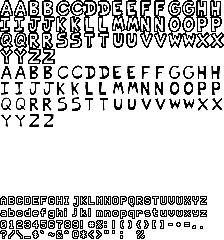
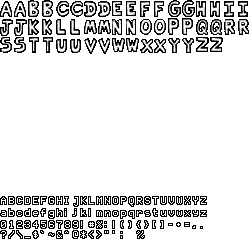
Add rotation and new bold font

Changed region(s): [[0.0, 0.0, 1.0, 0.5542], [0.0, 0.8167, 0.9375, 1.0]]

diff --git a/src/menu/menu.c b/src/menu/menu.c
@@ -118,34 +118,9 @@ static struct
 //Internal menu functions
 char menu_text_buffer[0x100];
 
-static const char *Menu_LowerIf(const char *text, boolean lower)
+static u8 Menu_TextSelected(boolean is_selected)
 {
-	//Copy text
-	char *dstp = menu_text_buffer;
-	if (lower)
-	{
-		for (const char *srcp = text; *srcp != '\0'; srcp++)
-		{
-			if (*srcp >= 'A' && *srcp <= 'Z')
-				*dstp++ = *srcp | 0x20;
-			else
-				*dstp++ = *srcp;
-		}
-	}
-	else
-	{
-		for (const char *srcp = text; *srcp != '\0'; srcp++)
-		{
-			if (*srcp >= 'a' && *srcp <= 'z')
-				*dstp++ = *srcp & ~0x20;
-			else
-				*dstp++ = *srcp;
-		}
-	}
-	
-	//Terminate text
-	*dstp++ = '\0';
-	return menu_text_buffer;
+	return (is_selected) ? 128 : 64;
 }
 
 static void Menu_DrawBack(boolean flash, s32 scroll, u8 r0, u8 g0, u8 b0, u8 r1, u8 g1, u8 b1)
@@ -564,11 +539,14 @@ void Menu_Tick(void)
 				//Draw all options
 				for (u8 i = 0; i < COUNT_OF(menu_options); i++)
 				{
-					font_bold.draw(&font_bold,
-						Menu_LowerIf(menu_options[i].text, menu.select != i),
+					font_bold.draw_col(&font_bold,
+						menu_options[i].text,
 						SCREEN_WIDTH2,
 						SCREEN_HEIGHT2 + (i * 32) - 48 - (menu.scroll >> FIXED_SHIFT),
-						FontAlign_Center
+						FontAlign_Center,
+						Menu_TextSelected(menu.select == i),
+						Menu_TextSelected(menu.select == i),
+						Menu_TextSelected(menu.select == i)
 					);
 				}
 			}
@@ -778,11 +756,14 @@ void Menu_Tick(void)
 					break;
 				
 				//Draw text
-				font_bold.draw(&font_bold,
-					Menu_LowerIf(menu_options[i].text, menu.select != i),
+				font_bold.draw_col(&font_bold,
+					menu_options[i].text,
 					22 + (y / 6),
 					SCREEN_HEIGHT2 + y - 8,
-					FontAlign_Left
+					FontAlign_Left,
+					Menu_TextSelected(menu.select == i),
+					Menu_TextSelected(menu.select == i),
+					Menu_TextSelected(menu.select == i)
 				);
 			}
 			
@@ -884,11 +865,14 @@ void Menu_Tick(void)
 					break;
 				
 				//Draw text
-				font_bold.draw(&font_bold,
-					Menu_LowerIf(menu_options[i].text, menu.select != i),
+				font_bold.draw_col(&font_bold,
+					menu_options[i].text,
 					48 + (y >> 2),
 					SCREEN_HEIGHT2 + y - 8,
-					FontAlign_Left
+					FontAlign_Left,
+					Menu_TextSelected(menu.select == i),
+					Menu_TextSelected(menu.select == i),
+					Menu_TextSelected(menu.select == i)
 				);
 			}
 			
@@ -1006,11 +990,14 @@ void Menu_Tick(void)
 						sprintf(text, "%s %s", menu_options[i].text, menu_options[i].spec.spec_enum.strs[*((s32*)menu_options[i].value)]);
 						break;
 				}
-				font_bold.draw(&font_bold,
-					Menu_LowerIf(text, menu.select != i),
+				font_bold.draw_col(&font_bold,
+					text,
 					48 + (y / 4),
 					SCREEN_HEIGHT2 + y - 8,
-					FontAlign_Left
+					FontAlign_Left,
+					Menu_TextSelected(menu.select == i),
+					Menu_TextSelected(menu.select == i),
+					Menu_TextSelected(menu.select == i)
 				);
 			}
 			

diff --git a/src/stage.c b/src/stage.c
@@ -13,6 +13,7 @@
 #include "main.h"
 #include "random.h"
 #include "movie.h"
+#include "mutil.h"
 
 #include "menu/menu.h"
 #include "trans.h"
@@ -508,6 +509,57 @@ static void Stage_ProcessPlayer(PlayerState *this, Pad *pad, boolean playing)
 }
 
 //Stage drawing functions
+void Stage_DrawTexRotateCol(Gfx_Tex *tex, const RECT *src, const RECT_FIXED *dst, fixed_t zoom, u8 cr, u8 cg, u8 cb, fixed_t angle)
+{
+	fixed_t xz = dst->x;
+	fixed_t yz = dst->y;
+	fixed_t wz = dst->w;
+	fixed_t hz = dst->h;
+	
+	//Don't draw if HUD and is disabled
+	if (tex == &stage.tex_hud0 || tex == &stage.tex_hud1)
+	{
+		if (stage.nohud)
+			return;
+	}
+	
+	if (angle == 0)
+	{
+		Stage_DrawTexCol(tex, src, dst, zoom, cr, cg, cb);
+		return;
+	}
+	
+	u8 rotation = angle >> FIXED_SHIFT;
+	
+	fixed_t sin = MUtil_Sin(rotation) << FIXED_SHIFT;
+	fixed_t cos = MUtil_Cos(rotation) << FIXED_SHIFT;
+	fixed_t rotation_x = (FIXED_MUL(xz, cos) >> 8) - (FIXED_MUL(yz, sin) >> 8);
+	fixed_t rotation_y = (FIXED_MUL(xz, sin) >> 8) + (FIXED_MUL(yz, cos) >> 8);
+	
+	fixed_t l = (SCREEN_WIDTH2  << FIXED_SHIFT) + FIXED_MUL(rotation_x, zoom);// + FIXED_DEC(1,2);
+	fixed_t t = (SCREEN_HEIGHT2 << FIXED_SHIFT) + FIXED_MUL(rotation_y, zoom);// + FIXED_DEC(1,2);
+	fixed_t r = l + FIXED_MUL(wz, zoom);
+	fixed_t b = t + FIXED_MUL(hz, zoom);
+	
+	l >>= FIXED_SHIFT;
+	t >>= FIXED_SHIFT;
+	r >>= FIXED_SHIFT;
+	b >>= FIXED_SHIFT;
+	
+	RECT sdst = {
+		l,
+		t,
+		r - l,
+		b - t,
+	};
+	Gfx_DrawTexRotateCol(tex, src, &sdst, cr, cg, cb, angle);
+}
+
+void Stage_DrawTexRotate(Gfx_Tex *tex, const RECT *src, const RECT_FIXED *dst, fixed_t zoom, fixed_t angle)
+{
+	Stage_DrawTexRotateCol(tex, src, dst, zoom, 0x80, 0x80, 0x80, angle);
+}
+
 void Stage_DrawTexCol(Gfx_Tex *tex, const RECT *src, const RECT_FIXED *dst, fixed_t zoom, u8 cr, u8 cg, u8 cb)
 {
 	fixed_t xz = dst->x;

diff --git a/src/psx/gfx.c b/src/psx/gfx.c
@@ -8,6 +8,7 @@
 
 #include "../mem.h"
 #include "../main.h"
+#include "../mutil.h"
 
 //Gfx constants
 #define OTLEN 8
@@ -215,6 +216,52 @@ void Gfx_BlitTexCol(Gfx_Tex *tex, const RECT *src, s32 x, s32 y, u8 r, u8 g, u8 
 void Gfx_BlitTex(Gfx_Tex *tex, const RECT *src, s32 x, s32 y)
 {
 	Gfx_BlitTexCol(tex, src, x, y, 0x80, 0x80, 0x80);
+}
+
+void Gfx_DrawTexRotateCol(Gfx_Tex *tex, const RECT *src, const RECT *dst, u8 r, u8 g, u8 b, s16 angle)
+{
+	if (angle == 0)
+	{
+		Gfx_DrawTexCol(tex, src, dst, r, g, b);
+		return;
+	}
+	
+	u8 rotation = angle;
+	
+	s16 sinVal = MUtil_Sin(rotation);
+    s16 cosVal = MUtil_Cos(rotation);
+	
+	// Get rotated points
+    POINT points[4] = {
+        {0, 0},
+        {dst->w, 0},
+        {0, dst->h},
+        {dst->w, dst->h}
+    };
+
+    for (int i = 0; i < 4; i++)
+    {
+        MUtil_RotatePoint(&points[i], sinVal, cosVal);
+        points[i].x += dst->x;
+        points[i].y += dst->y;
+    }
+	
+	//Add quad
+	POLY_FT4 *quad = (POLY_FT4*)nextpri;
+	setPolyFT4(quad);
+	setUVWH(quad, src->x, src->y, src->w, src->h);
+	setXY4(quad, points[0].x, points[0].y, points[1].x, points[1].y, points[2].x, points[2].y, points[3].x, points[3].y);
+	setRGB0(quad, r, g, b);
+	quad->tpage = tex->tpage;
+	quad->clut = tex->clut;
+	
+	addPrim(ot[db], quad);
+	nextpri += sizeof(POLY_FT4);
+}
+
+void Gfx_DrawTexRotate(Gfx_Tex *tex, const RECT *src, const RECT *dst, s16 angle)
+{
+	Gfx_DrawTexRotateCol(tex, src, dst, 0x80, 0x80, 0x80, angle);
 }
 
 void Gfx_DrawTexCol(Gfx_Tex *tex, const RECT *src, const RECT *dst, u8 r, u8 g, u8 b)

diff --git a/src/stage.h b/src/stage.h
@@ -183,6 +183,12 @@ typedef struct
 
 typedef struct
 {
+	fixed_t zoom;
+	u8 angle;
+} Camera;
+
+typedef struct
+{
 	//Stage settings
 	boolean ghost, downscroll, botplay;
 	s32 mode;
@@ -264,6 +270,8 @@ typedef struct
 extern Stage stage;
 
 //Stage drawing functions
+void Stage_DrawTexRotateCol(Gfx_Tex *tex, const RECT *src, const RECT_FIXED *dst, fixed_t zoom, u8 r, u8 g, u8 b, fixed_t angle);
+void Stage_DrawTexRotate(Gfx_Tex *tex, const RECT *src, const RECT_FIXED *dst, fixed_t zoom, fixed_t angle);
 void Stage_DrawTexCol(Gfx_Tex *tex, const RECT *src, const RECT_FIXED *dst, fixed_t zoom, u8 r, u8 g, u8 b);
 void Stage_DrawTex(Gfx_Tex *tex, const RECT *src, const RECT_FIXED *dst, fixed_t zoom);
 void Stage_DrawTexArb(Gfx_Tex *tex, const RECT *src, const POINT_FIXED *p0, const POINT_FIXED *p1, const POINT_FIXED *p2, const POINT_FIXED *p3, fixed_t zoom);

diff --git a/src/gfx.h b/src/gfx.h
@@ -43,6 +43,8 @@ void Gfx_DrawRect(const RECT *rect, u8 r, u8 g, u8 b);
 void Gfx_BlendRect(const RECT *rect, u8 r, u8 g, u8 b, u8 mode);
 void Gfx_BlitTexCol(Gfx_Tex *tex, const RECT *src, s32 x, s32 y, u8 r, u8 g, u8 b);
 void Gfx_BlitTex(Gfx_Tex *tex, const RECT *src, s32 x, s32 y);
+void Gfx_DrawTexRotateCol(Gfx_Tex *tex, const RECT *src, const RECT *dst, u8 r, u8 g, u8 b, s16 angle);
+void Gfx_DrawTexRotate(Gfx_Tex *tex, const RECT *src, const RECT *dst, s16 angle);
 void Gfx_DrawTexCol(Gfx_Tex *tex, const RECT *src, const RECT *dst, u8 r, u8 g, u8 b);
 void Gfx_DrawTex(Gfx_Tex *tex, const RECT *src, const RECT *dst);
 void Gfx_DrawTexArbCol(Gfx_Tex *tex, const RECT *src, const POINT *p0, const POINT *p1, const POINT *p2, const POINT *p3, u8 r, u8 g, u8 b);

diff --git a/src/font.c b/src/font.c
@@ -64,11 +64,11 @@ void Font_Bold_DrawCol(struct FontData *this, const char *text, s32 x, s32 y, Fo
 		//Draw character
 		if ((c -= 'A') <= 'z' - 'A') //Lower-case will show inverted colours
 		{
-			RECT src = {((c % 8) * 28) + v0, (c / 8) * 16, 14, 16};
+			RECT src = {((c % 9) * 28) + v0, (c / 9) * 18, 14, 18};
 			Font_DrawTex(this, &src, x, y, r, g, b);
 		}
 		
-		x += 13;
+		x += 12;
 	}
 }
 

diff --git a/src/menu/freeplay.h b/src/menu/freeplay.h
@@ -1,7 +1,7 @@
 	{StageId_1_4, 0xFFA5004D, "TUTORIAL"},
 	{StageId_1_1, 0xFF9271FD, "BOPEEBO"},
 	{StageId_1_2, 0xFF9271FD, "FRESH"},
-	{StageId_1_3, 0xFF9271FD, "DADBATTLE"},
+	{StageId_1_3, 0xFF9271FD, "DAD BATTLE"},
 	{StageId_2_1, 0xFF223344, "SPOOKEEZ"},
 	{StageId_2_2, 0xFF223344, "SOUTH"},
 	{StageId_2_3, 0xFF223344, "MONSTER"},
